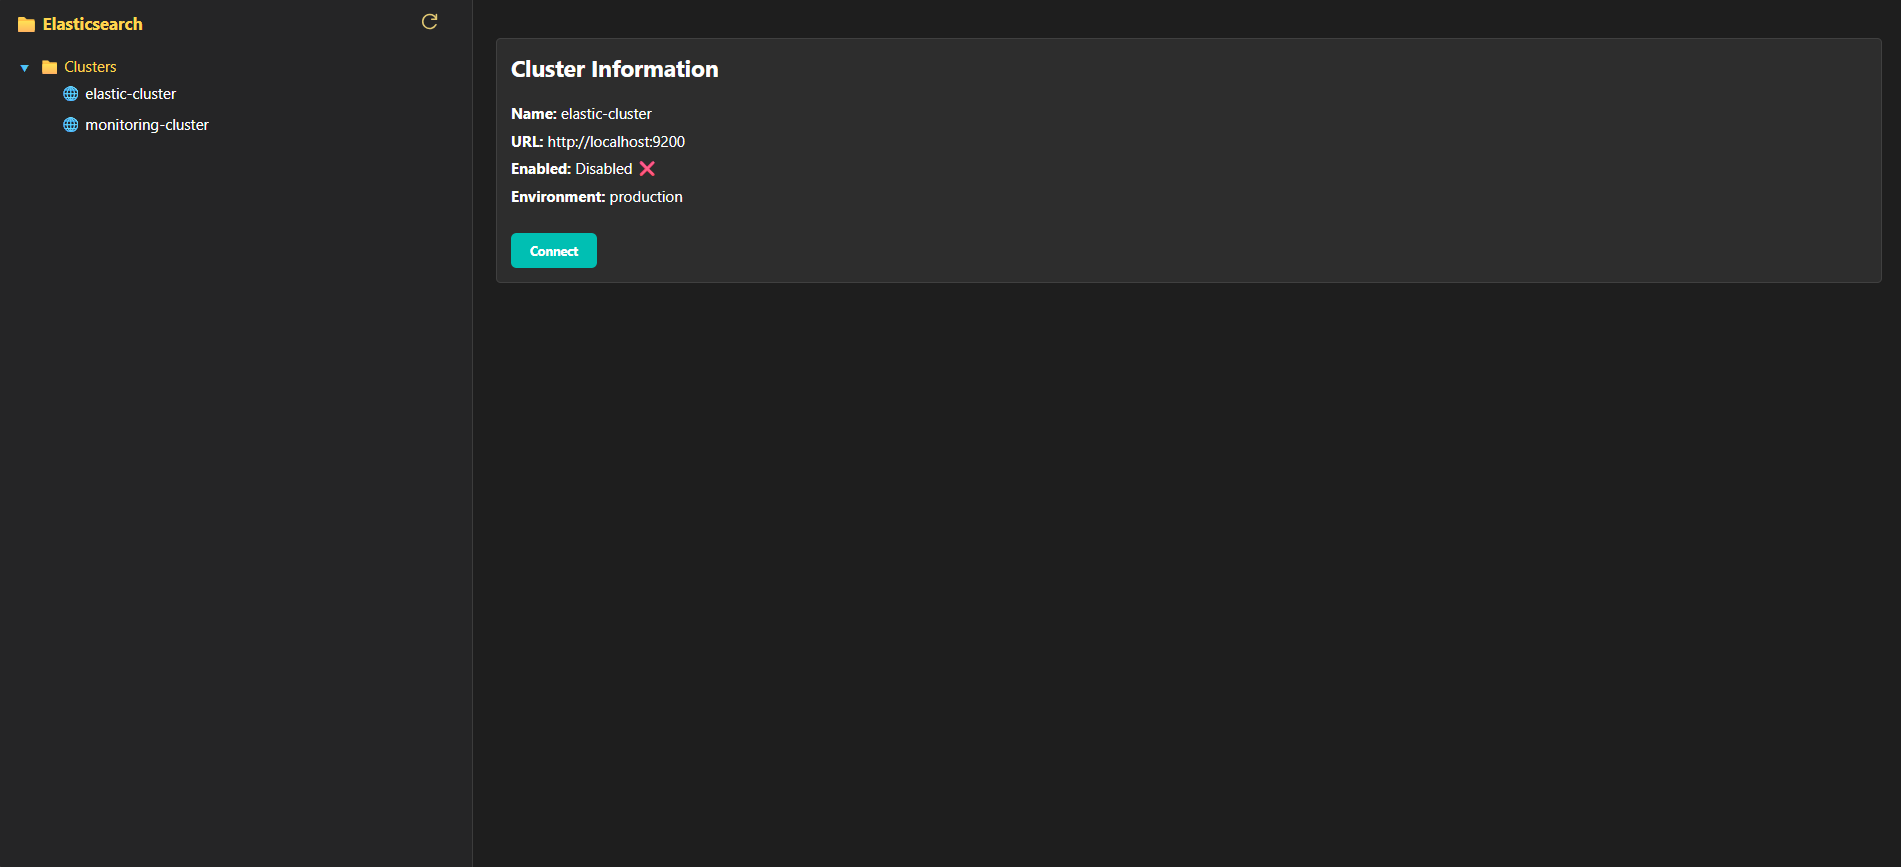
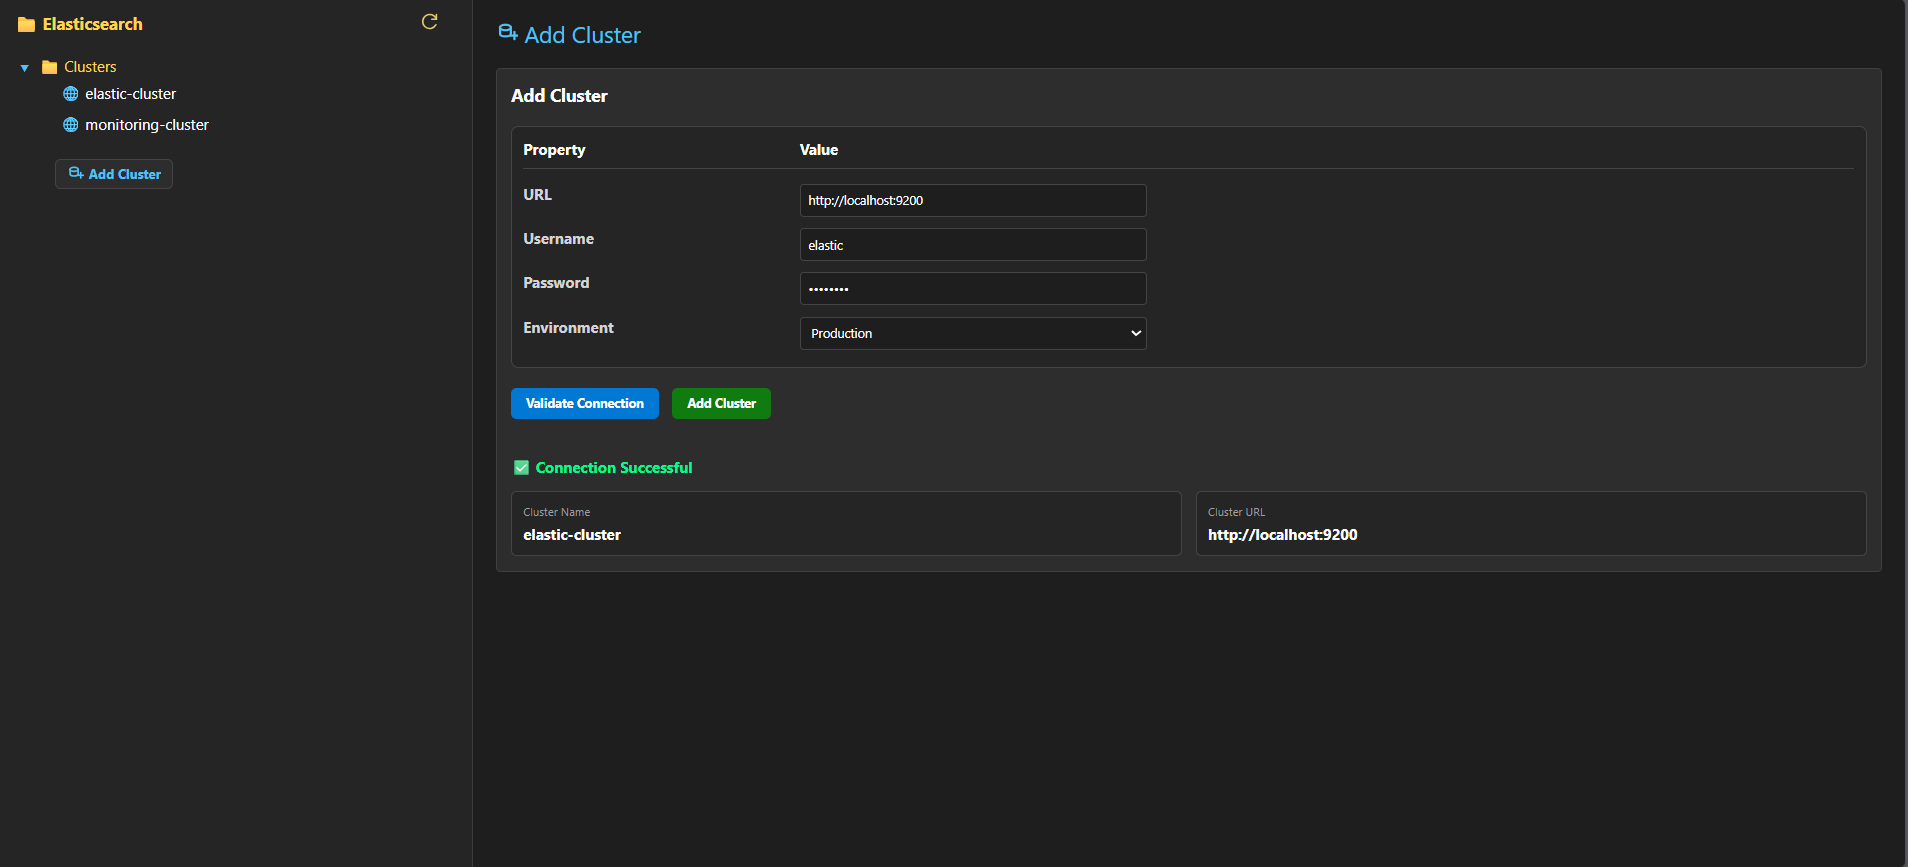
Add screenshot from Add Clsuter Panel

diff --git a/templates/add_cluster.html b/templates/add_cluster.html
@@ -12,26 +12,10 @@
         </div>
 
         <div class="property-row">
-            <span class="property-label">Cluster ID</span>
-            <input
-                type="text"
-                id="cluster-id"
-                placeholder="elastic-prod">
-        </div>
-
-        <div class="property-row">
-            <span class="property-label">Cluster Name</span>
-            <input
-                type="text"
-                id="cluster-name"
-                placeholder="Production Elasticsearch Cluster">
-        </div>
-
-        <div class="property-row">
             <span class="property-label">URL</span>
             <input
                 type="text"
-                id="cluster-url"
+                id="form-cluster-url"
                 placeholder="https://elastic-prod.company.com:9200">
         </div>
 
@@ -69,17 +53,6 @@
 
         </div>
 
-        <div class="property-row-checkbox">
-
-            <span class="property-label">Enabled</span>
-
-            <input
-                type="checkbox"
-                id="cluster-enabled"
-                checked>
-
-        </div>
-
     </div>
 
     <br>
@@ -90,14 +63,67 @@
         Validate Connection
     </button>
 
-    <button
-        class="form-button form-button-save"
-        id="save-cluster-btn">
+    <button class="form-button form-button-save" id="save-cluster-btn" disabled>
         Add Cluster
     </button>
 
     <br><br>
 
+
     <div id="cluster-validation-result"></div>
+            <div id="cluster-detected-info" class="cluster-detected-info" style="display:none;">
+                <div class="detected-info-header">
+                    ✅ Connection Successful
+                </div>
+
+                <div class="detected-info-grid">
+                    <div class="detected-info-card">
+                        <div class="detected-info-title">
+                            Cluster Name
+                        </div>
+
+                        <div
+                            class="detected-info-value"
+                            id="detected-cluster-name">
+                        </div>
+                    </div>
+
+                    <div class="detected-info-card">
+                        <div class="detected-info-title">
+                            Cluster URL
+                        </div>
+
+                        <div
+                            class="detected-info-value"
+                            id="detected-cluster-url">
+                        </div>
+                    </div>
+                </div>
+
+            </div>
+
+            <div id="cluster-validation-error" class="cluster-validation-error" style="display:none;">
+                    <div class="validation-error-header">
+                         ❌ Connection Failed
+                    </div>
+
+                    <div class="validation-error-message">
+                        Unable to connect to the Elasticsearch cluster.
+                        
+                        <br><br>
+
+                        Please verify:
+
+                        <ul>
+                            <li>Cluster URL</li>
+                            <li>Username</li>
+                            <li>Password</li>
+                            <li>Cluster Availability</li>
+                        </ul>
+
+                    </div>
+
+                </div>
+
 
 </div>

diff --git a/static/css/dashboard.css b/static/css/dashboard.css
@@ -903,3 +903,87 @@ ul.tree li{
     background:#3a3a3a;
     border-color:#4fc3f7;
 }
+/*------------------------------------------------------------------------------------------------------------------------------------------------------*/
+/*Style for clutser detected info*/
+.cluster-detected-info{
+    margin-top:20px;
+
+    opacity:0;
+    transform:translateY(10px);
+
+    transition:
+        opacity 0.4s ease,
+        transform 0.4s ease;
+}
+
+.cluster-detected-info.show{
+    opacity:1;
+    transform:translateY(0);
+}
+
+
+.detected-info-header{
+    color:#00ff88;
+    font-weight:bold;
+    margin-bottom:15px;
+}
+
+.detected-info-grid{
+    display:grid;
+    grid-template-columns:1fr 1fr;
+    gap:15px;
+}
+
+.detected-info-card{
+    background:#252526;
+    border:1px solid #444;
+    border-radius:6px;
+    padding:12px;
+}
+
+.detected-info-title{
+    color:#9e9e9e;
+    font-size:12px;
+    margin-bottom:6px;
+}
+
+.detected-info-value{
+    color:white;
+    font-weight:bold;
+}
+
+/*Style for Failed Validation message*/
+.cluster-validation-error{
+    margin-top:20px;
+
+    opacity:0;
+    transform:translateY(10px);
+
+    transition:
+        opacity 0.4s ease,
+        transform 0.4s ease;
+}
+
+.cluster-validation-error.show{
+    opacity:1;
+    transform:translateY(0);
+}
+
+.validation-error-header{
+    color:#ff6b6b;
+    font-weight:bold;
+    margin-bottom:12px;
+}
+
+.validation-error-message{
+    background:#252526;
+    border:1px solid #ff6b6b;
+    border-radius:6px;
+    padding:12px;
+    color:white;
+}
+
+.validation-error-message ul{
+    margin-top:8px;
+    padding-left:18px;
+}

diff --git a/templates/dashboard.html b/templates/dashboard.html
@@ -534,10 +534,8 @@
 <script src="{% static 'js/shard_properties.js' %}"></script>
 <script src="{% static 'js/node_disk_properties.js' %}"></script>
 <script src="{% static 'js/cluster_monitoring.js' %}"></script>
-<script src="{% static 'js/helpers.js' %}"></script>
 <script src="{% static 'js/index_disk_usage.js' %}"></script>
 <script src="{% static '/js/shard_disk_usage.js' %}"></script>
-<script src="{% static 'js/shard_allocation.js' %}"></script>
 <script src="{% static 'js/snapshot_properties.js' %}"></script>
 <script src="https://cdn.jsdelivr.net/npm/chart.js"></script>
 <script src="{% static 'js/cluster_health_history.js' %}"></script>
@@ -549,6 +547,8 @@
 <script src="{% static 'js/refresh_dashboard.js' %}"></script>
 <script src="{% static 'js/refresh_clusters.js' %}"></script>
 <script src="{% static 'js/add_cluster.js' %}"></script>
+
+<script src="{% static 'js/validate_cluster.js' %}"></script>
 
 </body>
 </html>

diff --git a/views.py b/views.py
@@ -1,9 +1,33 @@
 from django.shortcuts import render,redirect
 from django.http import JsonResponse
 from elasticsearch_api import get_nodes,get_cluster_health,get_users,get_clusters,get_indices,get_shards,get_node_disk_usage,format_storage_size,elastic_size_to_bytes,get_snapshots,get_cluster_health_history,save_cluster_storage_history,get_client,get_last_storage_usage,get_cluster_storage_history,get_last_node_usage,save_node_history,get_node_history,get_last_index_size,save_index_history,get_index_history,get_last_index_documents,get_last_shard_history,save_shard_history,get_shard_history
-import json 
 from collections import defaultdict
+from elasticsearch import Elasticsearch
+from django.views.decorators.http import require_POST
+import json 
 
+
+@require_POST
+def validate_cluster(request):
+    try:
+
+        data = json.loads(request.body)
+        print("REQUEST DATA:", data)
+        print("RAW BODY:", request.body)
+        url = data["url"]
+        username = data["username"]
+        password = data["password"]
+
+        es = Elasticsearch(url,basic_auth=(username, password))
+    
+        health = es.cluster.health()
+
+        return JsonResponse({"success": True,"cluster_name": health["cluster_name"],"url": url,})
+
+    except Exception as e:
+        return JsonResponse({"success": False,"error": str(e)})
+
+    
 def elastic_dashboard(request):
     selected_cluster = request.session.get("selected_cluster")
     clusters = get_clusters()

diff --git a/config/urls.py b/config/urls.py
@@ -16,11 +16,12 @@ Including another URLconf
 """
 from django.contrib import admin
 from django.urls import path
-from views import elastic_dashboard,connect_cluster,disconnect_cluster,cluster_health_history_panel,cluster_storage_history_panel,node_history_panel,index_history_panel,shard_history_panel
+from views import elastic_dashboard,connect_cluster,disconnect_cluster,cluster_health_history_panel,cluster_storage_history_panel,node_history_panel,index_history_panel,shard_history_panel,validate_cluster
 
 urlpatterns = [
     path('admin/', admin.site.urls),
     path("",elastic_dashboard,name="dashboard"),
+    path("validate-cluster/",validate_cluster, name="validate_cluster"),
     path("elastic_dashboard/",elastic_dashboard,name="elastic_dashboard"),
     path("connect_cluster/<str:cluster_id>/", connect_cluster, name="connect_cluster"),
     path("disconnect_cluster/",disconnect_cluster,name="disconnect_cluster"),
